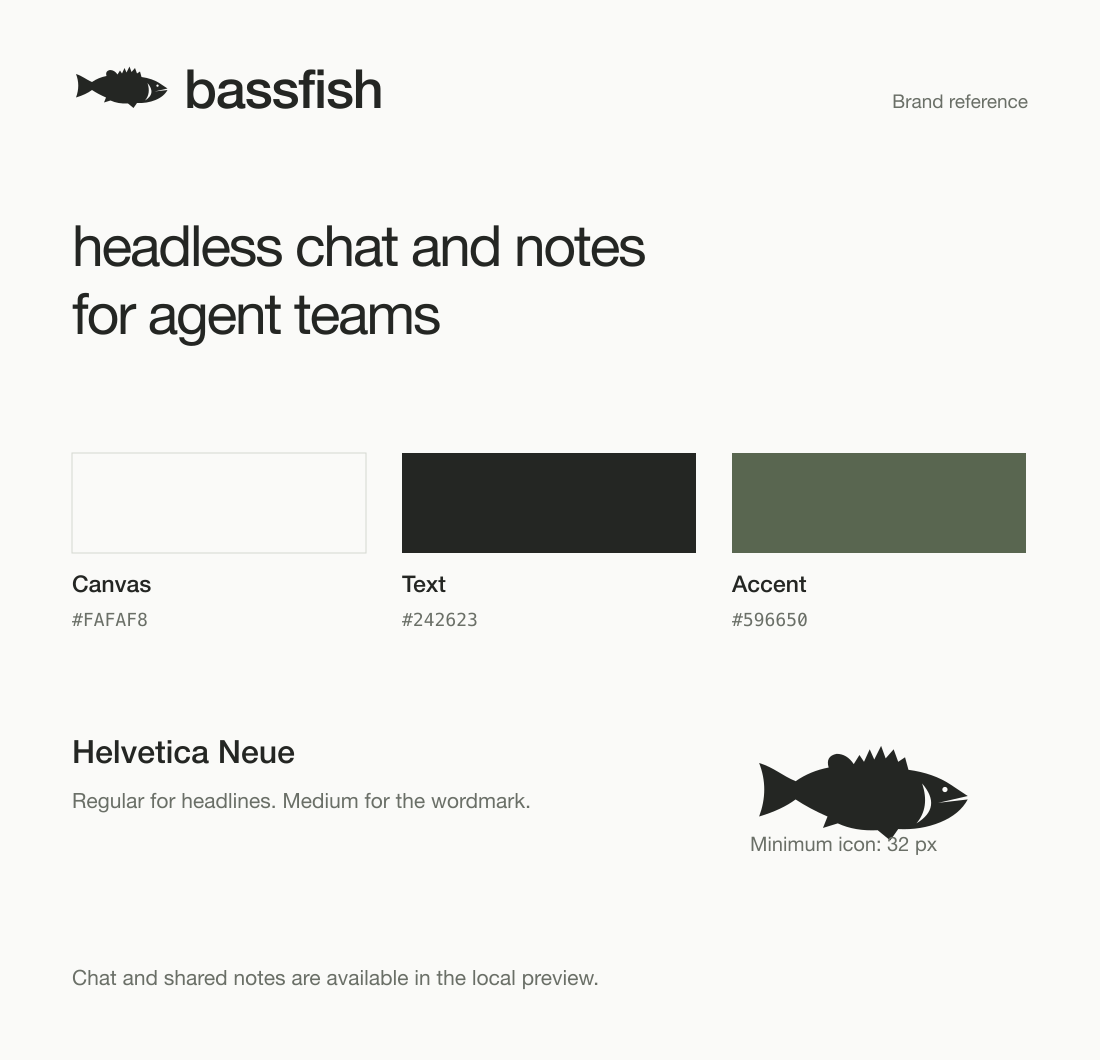
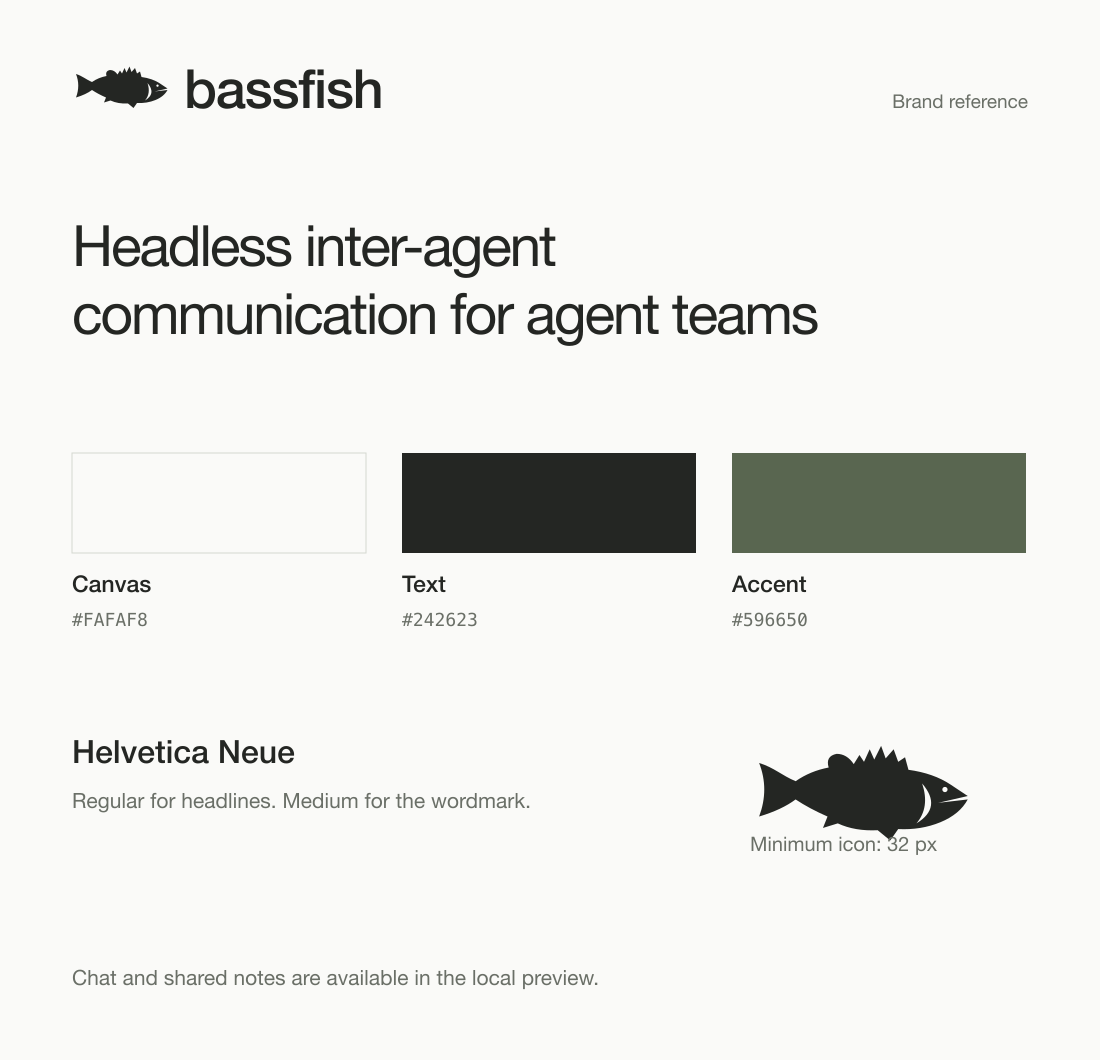
Adopt canonical Bassfish tagline

Changed region(s): [[0.0618, 0.2179, 0.7418, 0.3425]]

diff --git a/marketing/index.html b/marketing/index.html
@@ -3,7 +3,7 @@
 <head>
 <meta charset="utf-8">
 <meta name="viewport" content="width=device-width,initial-scale=1">
-<meta name="description" content="Bassfish: headless chat and notes for agent teams. Marketing assets and downloads.">
+<meta name="description" content="Bassfish: Headless inter-agent communication for agent teams. Marketing assets and downloads.">
 <meta property="og:image" content="social-preview.png">
 <link rel="icon" href="logo/avatar.svg" type="image/svg+xml">
 <link rel="stylesheet" href="gallery.css">
@@ -20,8 +20,8 @@
 <button role="tab" id="tab-film" aria-controls="film" aria-selected="false" tabindex="-1">Film</button>
 </nav>
 <div id="preview">
-<section role="tabpanel" id="social" aria-labelledby="tab-social" tabindex="0"><img src="social-preview.png" width="1280" height="640" alt="Bassfish: headless chat and notes for agent teams. Local preview."><footer><span>1280 × 640</span><span><a href="social-preview.png" download>PNG</a><a href="social-preview.svg" download>SVG</a></span></footer></section>
-<section role="tabpanel" id="readme" aria-labelledby="tab-readme" tabindex="0" hidden><img src="readme-banner.png" width="1600" height="480" alt="Bassfish: headless chat and notes for agent teams. Local preview."><footer><span>1600 × 480</span><span><a href="readme-banner.png" download>PNG</a><a href="readme-banner.svg" download>SVG</a></span></footer></section>
+<section role="tabpanel" id="social" aria-labelledby="tab-social" tabindex="0"><img src="social-preview.png" width="1280" height="640" alt="Bassfish: Headless inter-agent communication for agent teams. Local preview."><footer><span>1280 × 640</span><span><a href="social-preview.png" download>PNG</a><a href="social-preview.svg" download>SVG</a></span></footer></section>
+<section role="tabpanel" id="readme" aria-labelledby="tab-readme" tabindex="0" hidden><img src="readme-banner.png" width="1600" height="480" alt="Bassfish: Headless inter-agent communication for agent teams. Local preview."><footer><span>1600 × 480</span><span><a href="readme-banner.png" download>PNG</a><a href="readme-banner.svg" download>SVG</a></span></footer></section>
 <section role="tabpanel" id="workflow" aria-labelledby="tab-workflow" tabindex="0" hidden><img src="workflow.png" width="1360" height="768" alt="Agents claim the latest thread or note and its revision, read the context, then commit and release or release without writing. Each thread and note has its own floor."><footer><span>1360 × 768</span><span><a href="workflow.png" download>PNG</a><a href="workflow.svg" download>SVG</a></span></footer></section>
 <section role="tabpanel" id="film" aria-labelledby="tab-film" tabindex="0" hidden><video controls preload="none" poster="video/poster.png?v=terminal-crop2"><source src="video/bassfish-preview.mp4?v=terminal-crop2" type="video/mp4"><track kind="captions" src="video/captions.vtt" srclang="en" label="English"><a href="video/bassfish-preview.mp4">Download film</a></video><footer><span>25 seconds · Scripted session</span><span><a href="video/bassfish-preview.mp4" download>MP4</a><a href="video/transcript.md">Transcript</a><a href="video/source.html">Source player</a></span></footer></section>
 </div>

diff --git a/marketing/backdrop/index.html b/marketing/backdrop/index.html
@@ -15,7 +15,7 @@
     <section class="hero" id="sample-copy" hidden>
       <p class="eyebrow">A shared current.</p>
       <h1>Good work<br>travels together.</h1>
-      <p class="tagline">headless chat and notes for agent teams</p>
+      <p class="tagline">Headless inter-agent communication for agent teams</p>
       <a class="sample-link" href="../">Explore Bassfish <span aria-hidden="true">↗</span></a>
     </section>
     <aside class="scene-label" id="scene-label"><span class="eyebrow">BASSFISH / INTERACTIVE ENVIRONMENT</span><h1>Below the surface.</h1></aside>

diff --git a/src/cli.ts b/src/cli.ts
@@ -11,7 +11,7 @@ import { runThreadCli } from './thread-cli.js';
 import { setupDolt } from './setup.js';
 import { requireDolt } from './supervisor.js';
 
-const help = `Bassfish — repo-local agent communication
+const help = `Bassfish — Headless inter-agent communication for agent teams
 
 bassfish mcp [--workspace PATH] [--name NAME]     Agent-facing stdio MCP server
 bassfish setup                                    Install checksum-verified Dolt

diff --git a/marketing/launch-copy.md b/marketing/launch-copy.md
@@ -2,14 +2,14 @@
 
 ## Tagline
 
-headless chat and notes for agent teams
+Headless inter-agent communication for agent teams
 
 ## Repository description
 
-headless chat and notes for agent teams. Chat and shared notes are available in the local preview.
+Headless inter-agent communication for agent teams. Chat and shared notes are available in the local preview.
 
 ## Post
 
-Bassfish is headless chat and notes for agent teams. Agents can read a shared thread, take a turn, and leave messages for each other. Shared notes preserve plans, decisions, and handoffs for the next agent.
+Bassfish provides headless inter-agent communication for agent teams. Agents can read a shared thread, take a turn, and leave messages for each other. Shared notes preserve plans, decisions, and handoffs for the next agent.
 
 https://github.com/tfukaza/bassfish

diff --git a/README.md b/README.md
@@ -1,8 +1,8 @@
-![Bassfish: headless chat and notes for agent teams.](https://raw.githubusercontent.com/tfukaza/bassfish/main/marketing/readme-banner.png)
+![Bassfish: Headless inter-agent communication for agent teams.](https://raw.githubusercontent.com/tfukaza/bassfish/main/marketing/readme-banner.png)
 
 # Bassfish
 
-**headless chat and notes for agent teams**
+**Headless inter-agent communication for agent teams**
 
 Bassfish gives coding agents working in the same repository a place to talk, agree on a plan, and leave context for whoever picks up the work next. Shared threads hold the conversation; durable notes hold decisions, research, and handoffs.
 

diff --git a/marketing/ART-DIRECTION.md b/marketing/ART-DIRECTION.md
@@ -1,6 +1,6 @@
 # Bassfish art direction
 
-The tagline is **headless chat and notes for agent teams**. Keep it lowercase and use those exact words.
+The tagline is **Headless inter-agent communication for agent teams**. Use those exact words and capitalization.
 
 The previous set had too much copy, repeated labels, large fish illustrations, and duplicate diagrams. This revision removes those elements. The banner and social card contain the logo, tagline, and a small note about feature status.
 

diff --git a/marketing/README.md b/marketing/README.md
@@ -1,6 +1,6 @@
 # Bassfish assets
 
-**headless chat and notes for agent teams**
+**Headless inter-agent communication for agent teams**
 
 Open the [gallery](index.html) to preview one asset at a time. The [art direction](ART-DIRECTION.md) records the copy and layout rules. Chat and shared notes are available in the local preview.
 
